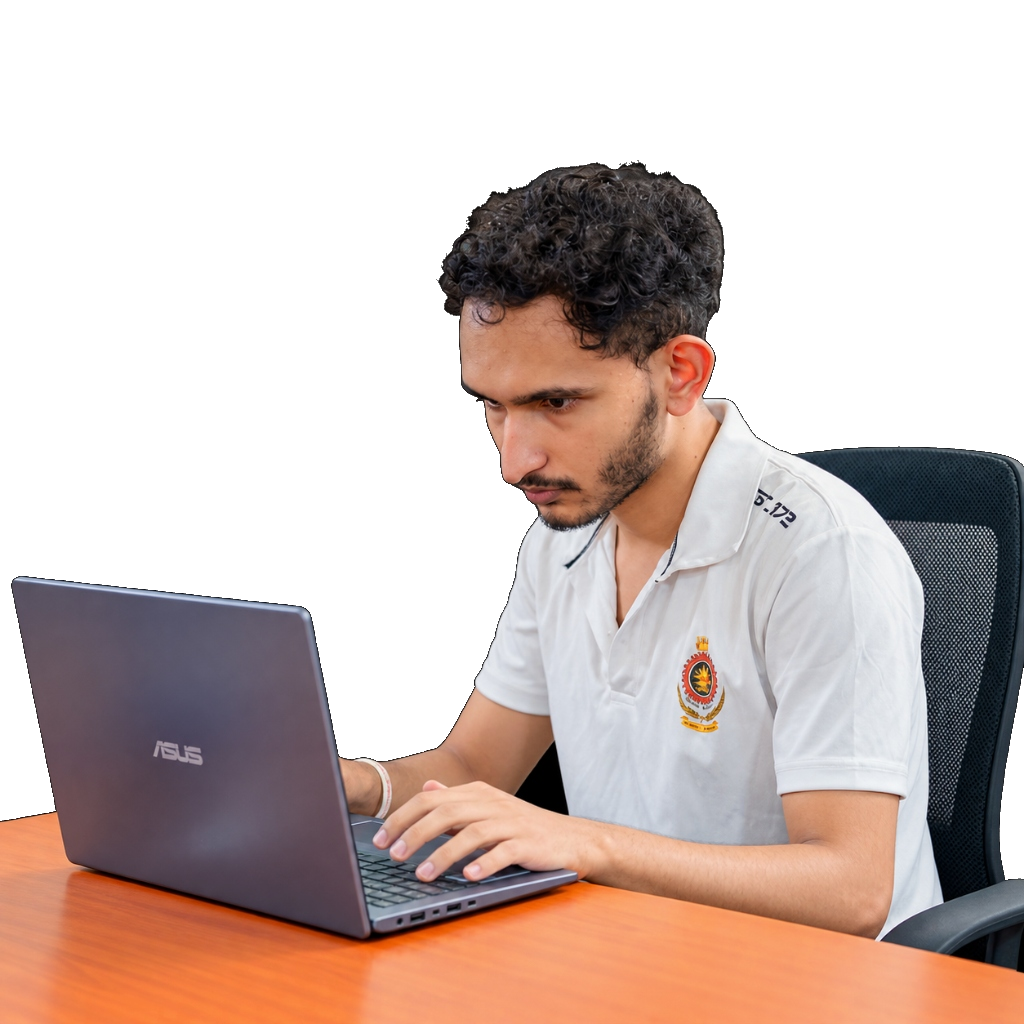
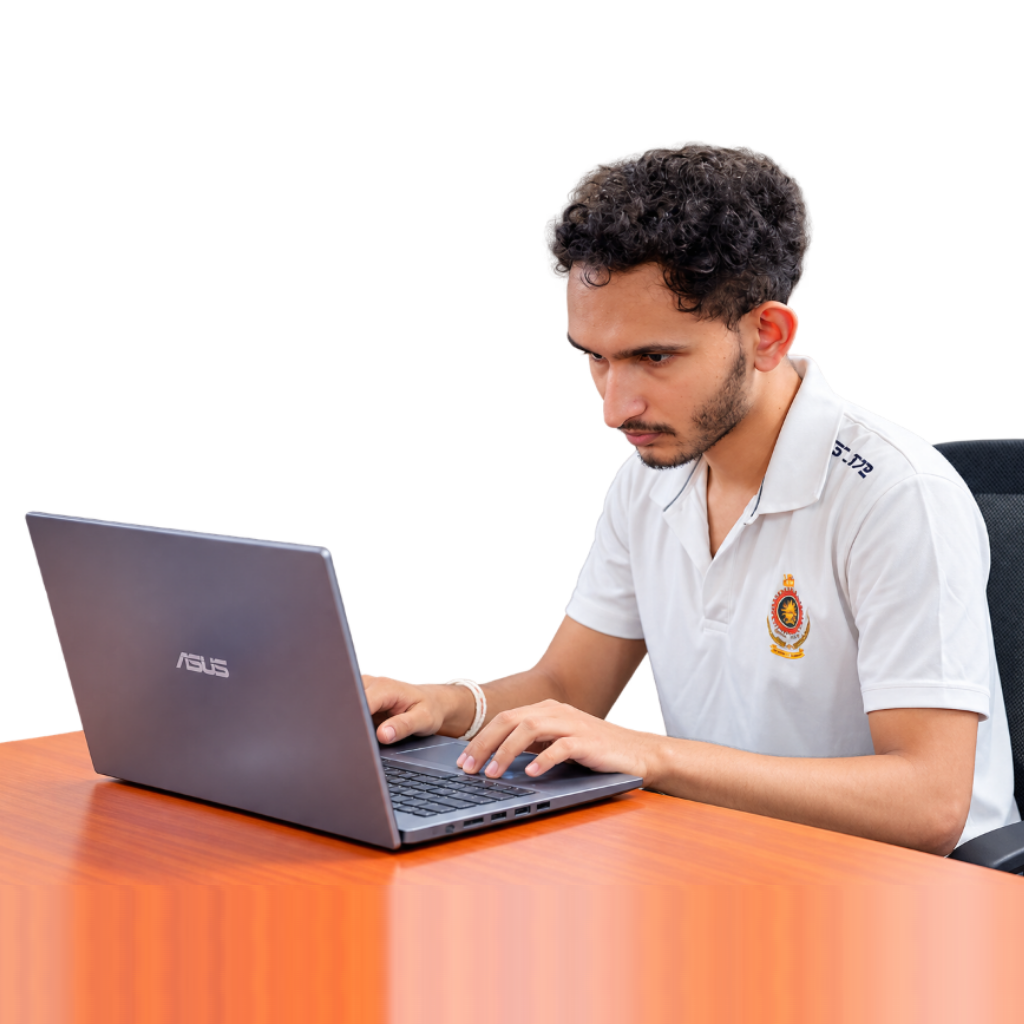
Add animated handwritten signature above footer and update portfolio assets

diff --git a/src/components/ui/handwritten-signature.tsx b/src/components/ui/handwritten-signature.tsx
@@ -1,0 +1,93 @@
+"use client";
+
+import React from "react";
+import { motion, Variants } from "motion/react";
+import { cn } from "@/lib/utils";
+
+export interface HandwrittenSignatureProps {
+  /** Additional CSS classes */
+  className?: string;
+  /** Stroke color for the signature. Defaults to current theme green variable */
+  strokeColor?: string;
+  /** Stroke width in SVG coordinates (viewBox 0 0 275 185) */
+  strokeWidth?: number;
+  /** Duration of the stroke animation in seconds */
+  duration?: number;
+  /** Delay before drawing begins in seconds */
+  delay?: number;
+  /** Whether the animation triggers when scrolled into view */
+  triggerOnView?: boolean;
+  /** Whether the animation repeats */
+  repeat?: boolean;
+  /** Custom inline styles */
+  style?: React.CSSProperties;
+}
+
+// Single continuous handwritten stroke path extracted from Dulan's authentic signature
+const SIGNATURE_PATH =
+  "M 105 43 C 106.1 45.2, 104.5 50.4, 109 51 C 113.5 51.6, 115.1 50, 121 45 C 126.9 40, 126.9 39.7, 130 33 C 133.1 26.3, 132.8 27.7, 132 21 C 131.2 14.3, 131.8 13.2, 127 9 C 122.2 4.8, 121.7 6, 115 6 C 108.3 6, 109.7 6.8, 103 9 C 96.3 11.2, 97.7 9.8, 91 14 C 84.3 18.2, 84.3 17.8, 79 24 C 73.7 30.2, 75.4 29.3, 72 36 C 68.6 42.7, 69 41.3, 67 48 C 65 54.7, 66.1 53.3, 65 60 C 63.9 66.7, 64.1 65.3, 63 72 C 61.9 78.7, 62.1 77.3, 61 84 C 59.9 90.7, 59.8 89.3, 59 96 C 58.2 102.7, 59.1 101.3, 58 108 C 56.9 114.7, 57.2 113.6, 55 120 C 52.8 126.4, 52.8 124.6, 50 131 C 47.2 137.4, 49.5 136.6, 45 143 C 40.5 149.4, 40.4 149.5, 34 154 C 27.6 158.5, 28.7 157.9, 22 159 C 15.3 160.1, 14.2 161.4, 10 158 C 5.8 154.6, 4.8 152.6, 7 147 C 9.2 141.4, 11.6 142.2, 18 138 C 24.4 133.8, 23.3 135.1, 30 132 C 36.7 128.9, 35.3 129, 42 127 C 48.7 125, 49.8 128.9, 54 125 C 58.2 121.1, 55.6 119.7, 57 113 C 58.4 106.3, 58.2 107.7, 59 101 C 59.8 94.3, 59.2 95.7, 60 89 C 60.8 82.3, 60.9 83.7, 62 77 C 63.1 70.3, 66.8 68.9, 64 65 C 61.2 61.1, 58.7 63.3, 52 63 C 45.3 62.7, 46.7 62.9, 40 64 C 33.3 65.1, 33.9 63.9, 28 67 C 22.1 70.1, 18.4 71.1, 19 75 C 19.6 78.9, 24.4 76.8, 30 81 C 35.6 85.2, 38.4 84.4, 39 90 C 39.6 95.6, 37.3 97.6, 32 101 C 26.7 104.4, 25 102.3, 20 102 C 15 101.7, 16.5 103.9, 14 100 C 11.5 96.1, 10.7 94.4, 11 88 C 11.3 81.6, 11.4 82.3, 15 77 C 18.6 71.7, 18.1 72.6, 24 69 C 29.9 65.4, 29.3 65.7, 36 64 C 42.7 62.3, 41.3 63, 48 63 C 54.7 63, 56.1 61.2, 60 64 C 63.9 66.8, 61.7 67.1, 62 73 C 62.3 78.9, 61.8 78.3, 61 85 C 60.2 91.7, 59.8 90.3, 59 97 C 58.2 103.7, 59.1 102.3, 58 109 C 56.9 115.7, 58.4 116, 55 121 C 51.6 126, 51.3 124.8, 46 127 C 40.7 129.2, 35.4 129, 36 129 C 36.6 129, 42.7 129.8, 48 127 C 53.3 124.2, 52.2 124.6, 55 119 C 57.8 113.4, 56.9 113.7, 58 107 C 59.1 100.3, 57.9 101.7, 59 95 C 60.1 88.3, 60.9 89.7, 62 83 C 63.1 76.3, 60.8 75.8, 63 71 C 65.2 66.2, 64.7 66.6, 70 66 C 75.3 65.4, 75.6 65.4, 82 69 C 88.4 72.6, 88.8 73.4, 93 79 C 97.2 84.6, 96.4 82.8, 97 89 C 97.6 95.2, 97.5 94.3, 95 101 C 92.5 107.7, 93.3 107.4, 88 113 C 82.7 118.6, 82.7 117.9, 76 121 C 69.3 124.1, 65.1 123.7, 64 124 C 62.9 124.3, 66.4 124, 72 122 C 77.6 120, 78.1 121.5, 84 117 C 89.9 112.5, 89.6 112.4, 93 106 C 96.4 99.6, 92.9 97.9, 96 94 C 99.1 90.1, 100.6 89.2, 104 92 C 107.4 94.8, 107.2 97.3, 108 104 C 108.8 110.7, 105.6 111.2, 107 116 C 108.4 120.8, 108.8 123, 113 121 C 117.2 119, 117.2 115.7, 122 109 C 126.8 102.3, 126.1 97.8, 130 97 C 133.9 96.2, 132.4 100.7, 136 106 C 139.6 111.3, 137.7 114.3, 143 116 C 148.3 117.7, 148.8 110.9, 155 112 C 161.2 113.1, 161.6 115.2, 165 120 C 168.4 124.8, 169.8 125.9, 167 129 C 164.2 132.1, 161.7 130.2, 155 131 C 148.3 131.8, 149.7 131.2, 143 132 C 136.3 132.8, 132.1 133.7, 131 134 C 129.9 134.3, 133.4 133.8, 139 133 C 144.6 132.2, 144.3 131.8, 151 131 C 157.7 130.2, 158 132.5, 163 130 C 168 127.5, 170.4 126.5, 169 122 C 167.6 117.5, 164.2 116, 158 114 C 151.8 112, 151.2 114.4, 147 115 C 142.8 115.6, 140.8 116.8, 143 116 C 145.2 115.2, 151.4 116.5, 155 112 C 158.6 107.5, 156 106.7, 156 100 C 156 93.3, 154.2 94.7, 155 88 C 155.8 81.3, 156.8 82.7, 159 76 C 161.2 69.3, 159.9 70.7, 163 64 C 166.1 57.3, 166.1 54.2, 170 52 C 173.9 49.8, 175.6 51.5, 177 56 C 178.4 60.5, 176.4 61.3, 175 68 C 173.6 74.7, 174.2 73.3, 172 80 C 169.8 86.7, 171.2 85.6, 167 92 C 162.8 98.4, 159.2 96.6, 157 103 C 154.8 109.4, 155.4 109.4, 159 115 C 162.6 120.6, 163.6 120.5, 170 123 C 176.4 125.5, 175.6 125.7, 182 124 C 188.4 122.3, 189.4 122, 193 117 C 196.6 112, 194.2 112.4, 195 106 C 195.8 99.6, 194.3 100.7, 196 94 C 197.7 87.3, 196.5 87.6, 201 82 C 205.5 76.4, 207.5 73.7, 212 74 C 216.5 74.3, 216.7 77.1, 217 83 C 217.3 88.9, 213.6 89.4, 213 95 C 212.4 100.6, 217.5 98.2, 215 103 C 212.5 107.8, 208.8 109.2, 204 112 C 199.2 114.8, 196.3 114.7, 198 113 C 199.7 111.3, 203.3 109.9, 210 106 C 216.7 102.1, 215.3 103.2, 222 99 C 228.7 94.8, 227.3 94.4, 234 91 C 240.7 87.6, 239.3 87, 246 87 C 252.7 87, 253.2 86.5, 258 91 C 262.8 95.5, 261 96.3, 263 103 C 265 109.7, 264.4 108.3, 265 115 C 265.6 121.7, 268.1 123.4, 265 127 C 261.9 130.6, 260.4 128.3, 254 128 C 247.6 127.7, 248.7 126.8, 242 126 C 235.3 125.2, 236.7 125.3, 230 125 C 223.3 124.7, 224.7 125, 218 125 C 211.3 125, 212.7 125, 206 125 C 199.3 125, 200.7 125.3, 194 125 C 187.3 124.7, 188.7 123.4, 182 124 C 175.3 124.6, 176.7 125.3, 170 127 C 163.3 128.7, 164.7 128.6, 158 130 C 151.3 131.4, 152.7 131.2, 146 132 C 139.3 132.8, 140.7 131.9, 134 133 C 127.3 134.1, 128.7 134.3, 122 136 C 115.3 137.7, 116.7 137.3, 110 139 C 103.3 140.7, 104.7 140, 98 142 C 91.3 144, 92.7 143.8, 86 146 C 79.3 148.2, 80.7 147.5, 74 150 C 67.3 152.5, 68.7 151.9, 62 155 C 55.3 158.1, 56.7 157.9, 50 161 C 43.3 164.1, 44.7 163.2, 38 166 C 31.3 168.8, 32.7 168.2, 26 171 C 19.3 173.8, 17.4 174.6, 14 176 C 10.6 177.4, 14 176, 14 176";
+
+export const HandwrittenSignature: React.FC<HandwrittenSignatureProps> = ({
+  className = "",
+  strokeColor = "var(--green, #2fae63)",
+  strokeWidth = 3.8,
+  duration = 2.2,
+  delay = 0.2,
+  triggerOnView = true,
+  repeat = false,
+  style = {},
+}) => {
+  const pathVariants: Variants = {
+    hidden: {
+      pathLength: 0,
+      opacity: 0,
+    },
+    visible: {
+      pathLength: 1,
+      opacity: 1,
+      transition: {
+        pathLength: {
+          duration,
+          ease: [0.22, 1, 0.36, 1],
+          delay,
+        },
+        opacity: {
+          duration: 0.2,
+          delay,
+        },
+      },
+    },
+  };
+
+  return (
+    <div
+      className={cn("inline-block select-none pointer-events-none", className)}
+      style={style}
+      aria-label="Dulan's Handwritten Signature"
+    >
+      <motion.svg
+        viewBox="0 0 275 185"
+        fill="none"
+        xmlns="http://www.w3.org/2000/svg"
+        className="w-full h-full overflow-visible"
+      >
+        <motion.path
+          d={SIGNATURE_PATH}
+          stroke={strokeColor}
+          strokeWidth={strokeWidth}
+          strokeLinecap="round"
+          strokeLinejoin="round"
+          variants={pathVariants}
+          initial="hidden"
+          animate={!triggerOnView ? "visible" : undefined}
+          whileInView={triggerOnView ? "visible" : undefined}
+          viewport={
+            triggerOnView ? { once: !repeat, margin: "-30px" } : undefined
+          }
+        />
+      </motion.svg>
+    </div>
+  );
+};
+
+export default HandwrittenSignature;

diff --git a/src/data/projects.ts b/src/data/projects.ts
@@ -52,10 +52,10 @@ export const projects: readonly Project[] = [
       "WebSocket/STOMP and LiveKit messaging/video with notifications, persistent chat, and short-lived tokens",
       "Prescriptions/pharmacy with payment verification, QR generation/validation, concurrency protection, and reuse prevention",
     ],
-    image: null,
+    image: "/images/projects/medisync.png",
     imageAlt: "MediSync project preview",
-    liveUrl: null,
-    repositoryUrl: null,
+    liveUrl: "https://medisync-frontend-57b1cdd293eb.herokuapp.com/",
+    repositoryUrl: "https://github.com/dulanprabashwara/Medisync-frontend",
   },
   {
     number: "03",
@@ -82,10 +82,10 @@ export const projects: readonly Project[] = [
       "Sinhala/Tamil translation, AI enrichment, embeddings, story clustering, For You feeds, trends, and grounded Ask This Story",
       "Redis Streams supervision/recovery/idempotency with Gemini/OpenRouter/Azure fallbacks",
     ],
-    image: null,
+    image: "/images/projects/ceylon-news.png",
     imageAlt: "Ceylon News project preview",
-    liveUrl: null,
-    repositoryUrl: null,
+    liveUrl: "https://ceylonnews.live/",
+    repositoryUrl: "https://github.com/dulanprabashwara/sri-lanka-news-frontend",
   },
   {
     number: "04",
@@ -110,10 +110,10 @@ export const projects: readonly Project[] = [
       "Firebase Authentication, PostgreSQL, Prisma, image uploads, comments, and user report management",
       "Leaflet maps, geolocation search, filters, nearby notifications, and Google Cloud Run deployment",
     ],
-    image: null,
+    image: "/images/projects/foundit.png",
     imageAlt: "FoundIt project preview",
-    liveUrl: null,
-    repositoryUrl: null,
+    liveUrl: "https://foundit-frontend-917715127151.us-central1.run.app/",
+    repositoryUrl: "https://github.com/dulanprabashwara/foundit",
   },
   {
     number: "05",
@@ -135,10 +135,10 @@ export const projects: readonly Project[] = [
       "Firebase Authentication/Firestore accounts, bot management, persistent history, and real-time synchronization",
       "Server API routes for OpenRouter responses, model fallback, and reliable message processing",
     ],
-    image: null,
+    image: "/images/projects/botnexus.png",
     imageAlt: "BotNexus project preview",
-    liveUrl: null,
-    repositoryUrl: null,
+    liveUrl: "https://chat-bot-oh94.vercel.app/",
+    repositoryUrl: "https://github.com/dulanprabashwara/BotNexus",
   },
   {
     number: "06",
@@ -168,7 +168,7 @@ export const projects: readonly Project[] = [
       "Stepper motor control",
       "Vibration feedback",
     ],
-    image: null,
+    image: "/images/projects/pacman-live.jpg",
     imageAlt: "Pacman Live project preview",
     liveUrl: null,
     repositoryUrl: null,

diff --git a/src/data/content.test.ts b/src/data/content.test.ts
@@ -23,8 +23,33 @@ describe("factual content invariants", () => {
       "https://github.com/dulanprabashwara/EasyBlogger-frontend",
     );
     expect(projects[0].image).toBe("/images/projects/easyblogger.png");
+    expect(projects[1].liveUrl).toBe(
+      "https://medisync-frontend-57b1cdd293eb.herokuapp.com/",
+    );
+    expect(projects[1].repositoryUrl).toBe(
+      "https://github.com/dulanprabashwara/Medisync-frontend",
+    );
+    expect(projects[1].image).toBe("/images/projects/medisync.png");
+    expect(projects[2].liveUrl).toBe("https://ceylonnews.live/");
+    expect(projects[2].repositoryUrl).toBe(
+      "https://github.com/dulanprabashwara/sri-lanka-news-frontend",
+    );
+    expect(projects[2].image).toBe("/images/projects/ceylon-news.png");
+    expect(projects[3].liveUrl).toBe(
+      "https://foundit-frontend-917715127151.us-central1.run.app/",
+    );
+    expect(projects[3].repositoryUrl).toBe(
+      "https://github.com/dulanprabashwara/foundit",
+    );
+    expect(projects[3].image).toBe("/images/projects/foundit.png");
+    expect(projects[4].liveUrl).toBe("https://chat-bot-oh94.vercel.app/");
+    expect(projects[4].repositoryUrl).toBe(
+      "https://github.com/dulanprabashwara/BotNexus",
+    );
+    expect(projects[4].image).toBe("/images/projects/botnexus.png");
+    expect(projects[5].image).toBe("/images/projects/pacman-live.jpg");
     expect(
-      projects.slice(1).every(
+      projects.slice(5).every(
         ({ liveUrl, repositoryUrl }) =>
           liveUrl === null && repositoryUrl === null,
       ),

diff --git a/src/components/projects/project-card.tsx b/src/components/projects/project-card.tsx
@@ -47,12 +47,12 @@ export function ProjectCard({ project, index, onOpen }: ProjectCardProps) {
                 className="w-full text-left transition-transform duration-300 hover:scale-[1.015] focus-visible:outline-2 focus-visible:outline-[var(--green,#2fae63)] rounded-xl block"
               >
                 {project.image ? (
-                  <div className="relative aspect-16/10 w-full overflow-hidden rounded-xl border border-[var(--border)] dark:border-[#2A2A2A]">
+                  <div className="relative aspect-[2/1] w-full overflow-hidden rounded-xl border border-[var(--border)] dark:border-[#2A2A2A] bg-white dark:bg-[#151515]">
                     <Image
                       src={project.image}
                       alt={project.imageAlt}
                       fill
-                      className="object-cover"
+                      className="object-contain"
                       sizes="(max-width: 1024px) 100vw, 60vw"
                     />
                   </div>

diff --git a/src/components/projects/project-dialog.tsx b/src/components/projects/project-dialog.tsx
@@ -100,12 +100,12 @@ export function ProjectDialog({
             <div className="lg:col-span-6 flex flex-col gap-5">
               <CardItem translateZ="50" className="w-full">
                 {project.image ? (
-                  <div className="relative aspect-16/10 w-full overflow-hidden rounded-xl border border-[var(--border)] dark:border-white/15 shadow-md group-hover/card:shadow-2xl transition-shadow">
+                  <div className="relative aspect-[2/1] w-full overflow-hidden rounded-xl border border-[var(--border)] dark:border-white/15 shadow-md group-hover/card:shadow-2xl transition-shadow bg-white dark:bg-[#151515]">
                     <Image
                       src={project.image}
                       alt={project.imageAlt}
                       fill
-                      className="object-cover"
+                      className="object-contain"
                       sizes="(max-width: 1024px) 100vw, 50vw"
                     />
                   </div>

diff --git a/src/components/contact/contact.tsx b/src/components/contact/contact.tsx
@@ -4,6 +4,7 @@ import { socials } from "@/data/socials";
 import { StaggerButton } from "@/components/ui/stagger-button";
 import { SpotlightCard } from "@/components/ui/spotlightcard";
 import { ContactIcon } from "@/components/ui/contact-icon";
+import { HandwrittenSignature } from "@/components/ui/handwritten-signature";
 
 export function Contact() {
   return (
@@ -95,6 +96,15 @@ export function Contact() {
             </div>
           ))}
         </SpotlightCard>
+      </div>
+
+      {/* Signature sign-off above footer */}
+      <div className="mt-16 sm:mt-20 pt-8 border-t border-[var(--border)]/60 dark:border-[#2A2A2A]/60 flex flex-col items-center justify-center text-center">
+        <HandwrittenSignature
+          className="w-48 sm:w-60 h-auto opacity-95 hover:opacity-100 transition-opacity"
+          duration={2.2}
+          delay={0.2}
+        />
       </div>
     </div>
   );

diff --git a/src/components/recognition/recognition.test.tsx b/src/components/recognition/recognition.test.tsx
@@ -27,7 +27,7 @@ function LightboxHarness() {
 }
 
 describe("Recognition component", () => {
-  it("renders achievements without invented photo controls", () => {
+  it("renders achievements and photo trigger when image exists", () => {
     render(<Recognition />);
     for (const value of [
       "CHAMPIONS",
@@ -40,8 +40,11 @@ describe("Recognition component", () => {
       expect(screen.getByText(value)).toBeInTheDocument();
     }
     expect(
-      screen.queryByRole("button", { name: /open .* photo/i }),
-    ).not.toBeInTheDocument();
+      screen.getByRole("button", { name: "Open GenZipher Hackathon photo" }),
+    ).toBeInTheDocument();
+    expect(
+      screen.getByRole("button", { name: "Open MoraXtreme 10.0 photo" }),
+    ).toBeInTheDocument();
   });
 
   it("supports lightbox opening, Escape closing, and focus restoration when image exists", async () => {

diff --git a/tests/capture-icons.spec.ts b/tests/capture-icons.spec.ts
@@ -27,7 +27,9 @@ test("capture sections with icons", async ({ page }) => {
   await page.screenshot({ path: `${ARTIFACT_DIR}/projects-section-icons.png` });
 
   // Capture EasyBlogger project card specifically
-  const easyBloggerCard = page.locator("article").filter({ hasText: "EasyBlogger" });
+  const easyBloggerCard = page
+    .locator("article")
+    .filter({ hasText: "EasyBlogger" });
   await easyBloggerCard.scrollIntoViewIfNeeded();
   await page.waitForTimeout(500);
   await page.screenshot({ path: `${ARTIFACT_DIR}/easyblogger-card.png` });

diff --git a/src/data/achievements.ts b/src/data/achievements.ts
@@ -9,7 +9,7 @@ export const achievements: readonly Achievement[] = [
     institution: "University of Colombo School of Computing",
     team: "Team CodeStormers",
     date: "Feb 2026",
-    image: null,
+    image: "/images/achievements/genzipher.jpg",
   },
   {
     result: "1ST RUNNERS-UP",
@@ -19,6 +19,6 @@ export const achievements: readonly Achievement[] = [
     institution: "University of Moratuwa",
     team: "Team Hexa 404",
     date: "Jan 2026",
-    image: null,
+    image: "/images/achievements/moraxtreme.jpg",
   },
 ] as const;

diff --git a/src/components/projects/project-actions.test.tsx b/src/components/projects/project-actions.test.tsx
@@ -13,7 +13,11 @@ describe("ProjectActions component", () => {
   });
 
   it("renders disabled visual placeholders for software projects with null URLs", () => {
-    render(<ProjectActions project={projects[1]} />);
+    render(
+      <ProjectActions
+        project={{ ...projects[0], liveUrl: null, repositoryUrl: null }}
+      />,
+    );
     expect(
       screen.queryByRole("link", { name: /live site|repository/i }),
     ).not.toBeInTheDocument();
